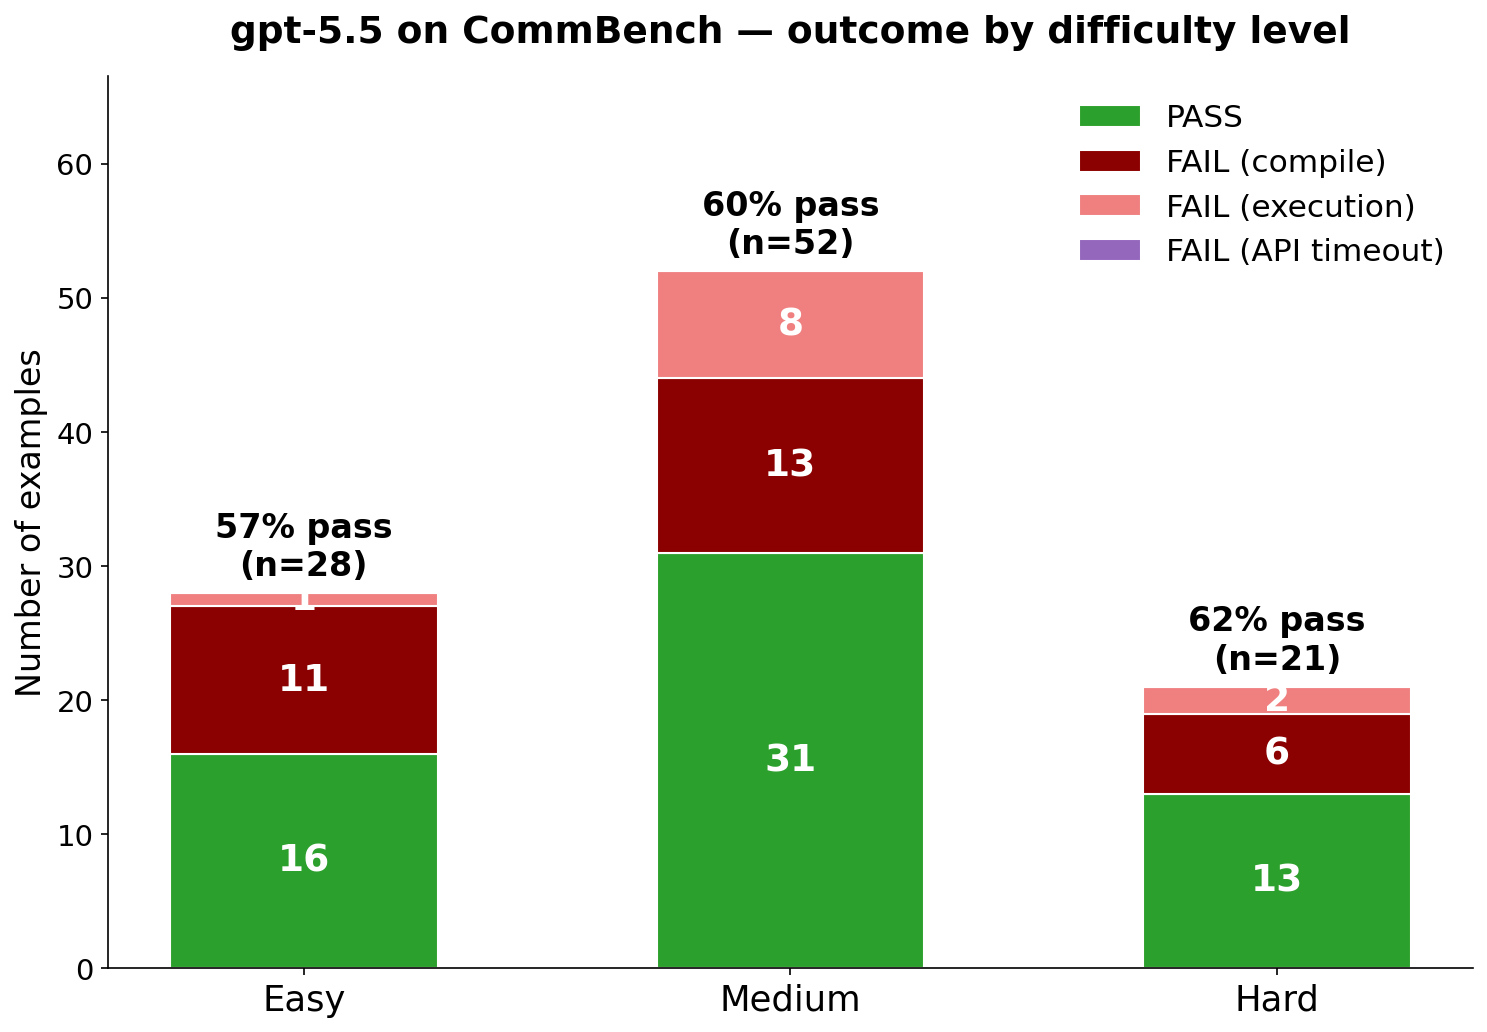
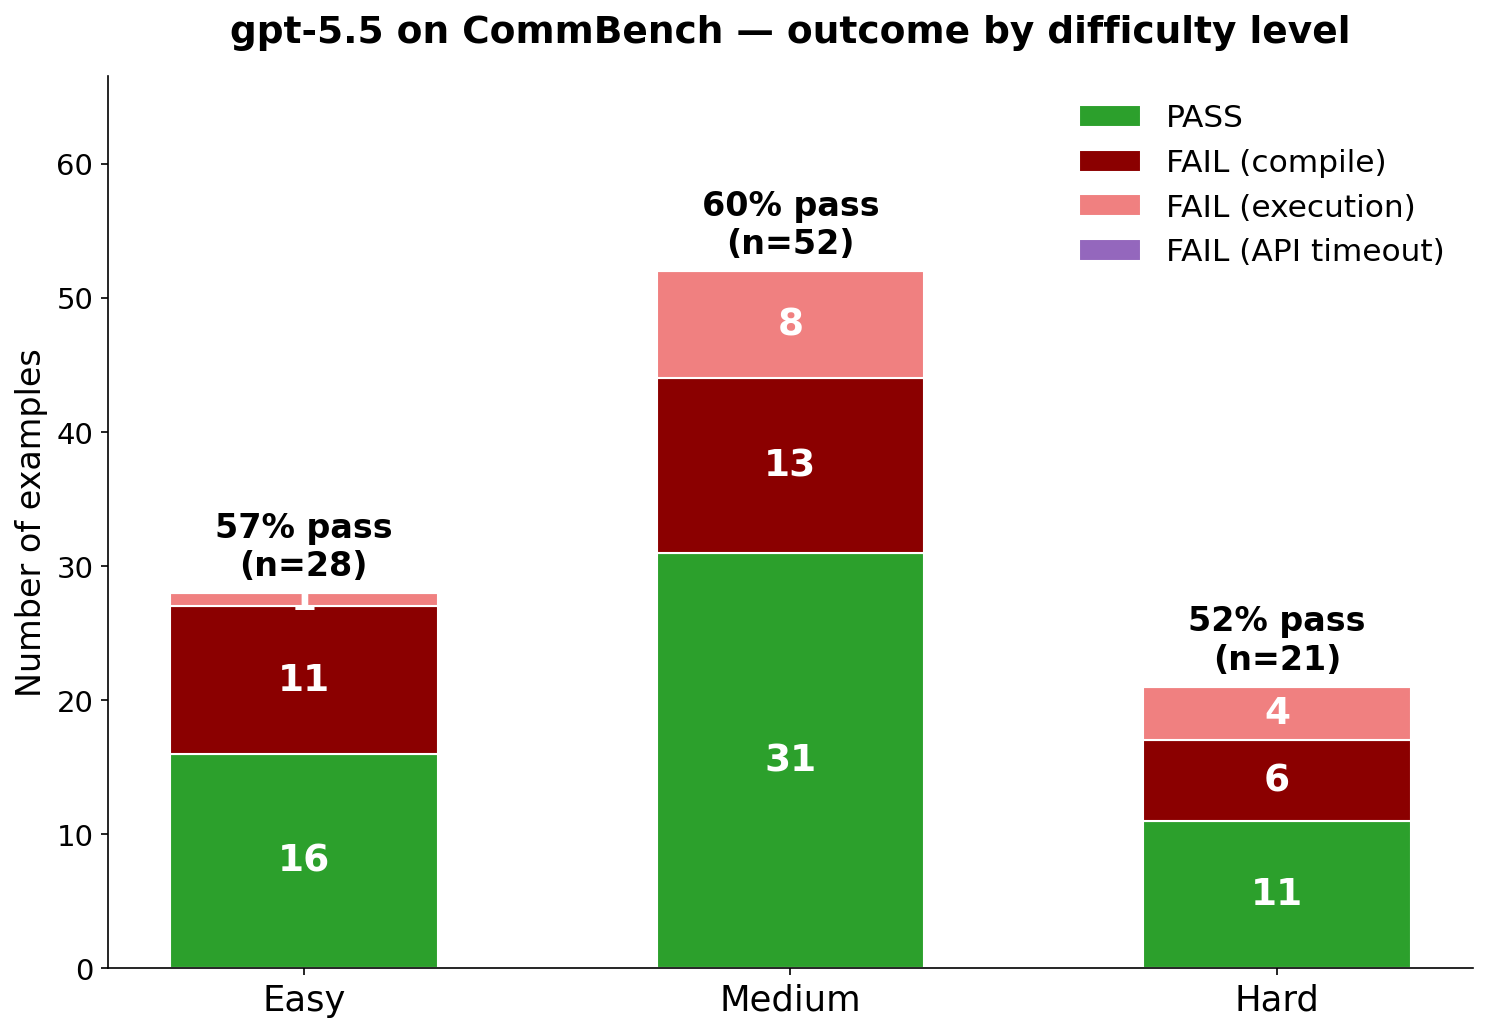
update details

Changed region(s): [[0.7734, 0.6822, 0.959, 0.8062], [0.8352, 0.8372, 0.8971, 0.8992]]

diff --git a/src/content/posts/ubench.md b/src/content/posts/ubench.md
@@ -1,6 +1,6 @@
 ---
 title: "CommBench: Can LLMs Write Correct and Efficient GPU Communication code?"
-slug: llm-gpu-comm-kernels
+slug: commbench
 description: "CommBench evaluates how effectively frontier LLMs generate multi-device GPU communication code, covering diverse communication functionalities and compute–communication fusion kernels."
 category:
   - One
@@ -14,7 +14,7 @@ tags:
   - CUDA
   - NCCL
   - MSCCLPP
-pubDate: 2026-05-21
+pubDate: 2026-06-08
 cover: /ubench/commbench-logo.png
 coverAlt: CommBench logo
 author: Shuang Ma, Yuyi Li, Yihan Zhang, Danyang Chen, Shuyang Ji, Ziming Zhao, Cheng Ji, Ansha Prashanth, Wenting Yang, Chihan Cui, Peiyu Lin, Amanda Raybuck, Ion Stoica, Yang Zhou, and the UCCL Team.
@@ -23,16 +23,16 @@ author: Shuang Ma, Yuyi Li, Yihan Zhang, Danyang Chen, Shuyang Ji, Ziming Zhao, 
 <p>
 <strong>By: Shuang Ma, Yuyi Li, Yihan Zhang, Danyang Chen, Shuyang Ji, Ziming Zhao, Cheng Ji, Ansha Prashanth, Wenting Yang, Chihan Cui, Peiyu Lin, Amanda Raybuck, Ion Stoica, Yang Zhou, and the UCCL Team.
 <br>
-Date: May 21, 2026
+Date: June 8, 2026
 </strong>
 </p>
 
 <div class="tldr">
 <p>
-Today's frontier LLMs write excellent single-device code yet consistently fail on multi-device GPU communication, precisely the code that bottlenecks large-scale LLM training and inference. We present CommBench, a benchmark spanning <strong>point-to-point</strong>, <strong>collective</strong>, <strong>expert-parallel</strong>, <strong>compute and communication fusion</strong>, and <strong>utilities</strong> (building blocks for GPU communication interfaces, such as a GPU–CPU FIFO queue), drawn from hand-written implementations and production codebases including Mscclpp, NCCL, NVSHMEM, DeepEP, ThunderKittens, vLLM, and SGLang. We evaluate leading closed and open models under a cheat-resistant harness and present case studies of where and why they succeed or break down. As future work, we plan to post-train LLMs on these datasets to close this gap.
+Today's frontier LLMs write excellent single-device code yet consistently fail on multi-device GPU communication, precisely the code that bottlenecks large-scale LLM training and inference. We present CommBench, a benchmark covering industry-level multi-device communication use cases based on UCCL's development experience. The dataset spans <strong>point-to-point</strong>, <strong>collective</strong>, <strong>expert-parallel</strong>, <strong>compute and communication fusion</strong>, and <strong>utilities</strong> (building blocks for GPU communication interfaces, such as a GPU–CPU FIFO queue) — some examples hand-written by GPU communication experts, others distilled from production codebases such as Mscclpp, NCCL, NVSHMEM, DeepEP, ThunderKittens, vLLM, and SGLang. We evaluate leading closed and open models under a cheat-resistant harness and present case studies of where and why they succeed or break down. As future work, we plan to post-train LLMs on these datasets to close this gap.
 </p>
 <p>
-Open-sourced at <a href="https://github.com/uccl-project/llm-for-gpu-comm/tree/main">uccl-project/llm-for-gpu-comm</a>.
+Open-sourced at <a href="https://github.com/uccl-project/CommBench/tree/main">uccl-project/CommBench</a>.
 </p>
 </div>
 
@@ -77,7 +77,7 @@ We built a framework that automatically evaluates different models on the datase
 
 **Example structure.** Each example has three parts:
 
-- **Reference solution** — high-quality, hand-written code organized in an object-oriented style (Python / CUDA / HIP / C++). It ships with a test harness that uses randomized inputs, so a model cannot hard-code expected outputs.
+- **Reference solution** — high-quality, hand-written code organized in an object-oriented style (Python / CUDA / HIP / C++). It ships with a test harness that uses randomized inputs, so a model cannot hard-code expected outputs. We keep the reference solutions secret to prevent them from leaking into model training data and contaminating future evaluations.
 - **Empty solution** — the reference with its core implementation stripped out and marked `// TODO`, but with the functional interface preserved. This file becomes part of the prompt: the model must honor the interface semantics, which also keeps its output directly testable. We verify that only the regions meant to be edited were changed, guarding against cheating.
 - **Build-and-run script** — independently compiles and runs an example (reference or generated) and is hidden from the model. By controlling the compile command, we strictly ensure the generated code uses only the intended libraries.
 
@@ -90,17 +90,17 @@ We built a framework that automatically evaluates different models on the datase
 > Sorted by **Pass×GM** ⭐ — pass rate scaled by geometric-mean code quality on passing examples.
 > Bars `▓░` are scaled to the column maximum.
 
-| Rank | Model | Price | Pass×GM | Pass Rate | PASS+Good | GM‑Speedup |
-|:----:|:------|:-----:|:-------:|:---------:|:---------:|:----------:|
-| 🥇 | **gpt-5.5** | $1.91 | 🟢 **0.539** `▓▓▓▓▓▓▓▓` | 🟢 59.4% `▓▓▓▓▓▓▓▓` | 🟢 **32.7%** `▓▓▓▓▓▓▓▓` | 🟡 0.908 `▓▓▓░░░░░` |
-| 🥈 | **gemini-3.1-pro-preview** | $0.26 | 🟡 0.305 `▓▓▓▓▓░░░` | 🟡 36.6% `▓▓▓▓▓░░░` | 🟢 **25.7%** `▓▓▓▓▓▓░░` | 🔴 0.832 `░░░░░░░░` |
-| 🥉 | **claude-opus-4-7** | $0.21 | 🟡 0.282 `▓▓▓▓▓░░░` | 🟡 33.7% `▓▓▓▓▓░░░` | 🟡 **20.8%** `▓▓▓▓▓░░░` | 🔴 0.836 `░░░░░░░░` |
-| 4️⃣ | **glm-5.1** | $0.63 | 🟡 0.281 `▓▓▓▓░░░░` | 🟡 29.7% `▓▓▓▓░░░░` | 🟡 **17.8%** `▓▓▓▓░░░░` | 🟢 0.947 `▓▓▓▓▓░░░` |
-| 5️⃣ | **kimi-k2.6** | $0.10 | 🟡 0.275 `▓▓▓▓░░░░` | 🟡 30.7% `▓▓▓▓░░░░` | 🟡 **18.8%** `▓▓▓▓▓░░░` | 🟡 0.895 `▓▓▓░░░░░` |
-| 6️⃣ | **qwen3.7-max** | $0.03 | 🟡 0.269 `▓▓▓▓░░░░` | 🟡 26.7% `▓▓▓▓░░░░` | 🟡 **15.8%** `▓▓▓▓░░░░` | 🟢 1.008 `▓▓▓▓▓▓▓▓` |
-| 7️⃣ | **deepseek-v4-pro** | $0.02 | 🔴 0.197 `▓▓▓░░░░░` | 🔴 19.8% `▓▓▓░░░░░` | 🔴 **12.9%** `▓▓▓░░░░░` | 🟢 0.995 `▓▓▓▓▓▓▓░` |
+| Rank | Model | Pass×GM | Pass Rate | PASS+Good | GM‑Speedup | Open Source | Price |
+|:----:|:------|:-------:|:---------:|:---------:|:----------:|:-----------:|:-----:|
+| 🥇 | **gpt-5.5** | 🟢 **0.467** `▓▓▓▓▓▓▓▓` | 🟢 57.4% `▓▓▓▓▓▓▓▓` | 🟢 **30.7%** `▓▓▓▓▓▓▓▓` | 🔴 0.813 `░░░░░░░░` | ❌ | $1.91 |
+| 🥈 | **gemini-3.1-pro-preview** | 🟡 0.305 `▓▓▓▓▓░░░` | 🟡 36.6% `▓▓▓▓▓░░░` | 🟢 **25.7%** `▓▓▓▓▓▓░░` | 🔴 0.832 `▓░░░░░░░` | ❌ | $0.26 |
+| 🥉 | **claude-opus-4-7** | 🟡 0.282 `▓▓▓▓▓░░░` | 🟡 33.7% `▓▓▓▓▓░░░` | 🟡 **20.8%** `▓▓▓▓▓░░░` | 🔴 0.836 `▓░░░░░░░` | ❌ | $0.21 |
+| 4️⃣ | **glm-5.1** | 🟡 0.281 `▓▓▓▓░░░░` | 🟡 29.7% `▓▓▓▓░░░░` | 🟡 **17.8%** `▓▓▓▓░░░░` | 🟢 0.947 `▓▓▓▓▓▓░░` | ✅ | $0.63 |
+| 5️⃣ | **kimi-k2.6** | 🟡 0.275 `▓▓▓▓░░░░` | 🟡 30.7% `▓▓▓▓░░░░` | 🟡 **18.8%** `▓▓▓▓▓░░░` | 🟡 0.895 `▓▓▓░░░░░` | ✅ | $0.10 |
+| 6️⃣ | **qwen3.7-max** | 🟡 0.269 `▓▓▓▓░░░░` | 🟡 26.7% `▓▓▓▓░░░░` | 🟡 **15.8%** `▓▓▓▓░░░░` | 🟢 1.008 `▓▓▓▓▓▓▓▓` | ❌ | $0.03 |
+| 7️⃣ | **deepseek-v4-pro** | 🔴 0.197 `▓▓▓░░░░░` | 🔴 19.8% `▓▓▓░░░░░` | 🔴 **12.9%** `▓▓▓░░░░░` | 🟢 0.995 `▓▓▓▓▓▓▓░` | ✅ | $0.02 |
 
-**Color:** 🟢 top tier &nbsp;·&nbsp; 🟡 mid tier &nbsp;·&nbsp; 🔴 bottom tier &nbsp;&nbsp;|&nbsp;&nbsp; GM‑Speedup bar scaled to [0.832, 1.008] range (not from zero).
+**Color:** 🟢 top tier &nbsp;·&nbsp; 🟡 mid tier &nbsp;·&nbsp; 🔴 bottom tier &nbsp;&nbsp;|&nbsp;&nbsp; GM‑Speedup bar scaled to [0.813, 1.008] range (not from zero).
 
 ### Metric Definitions
 
@@ -109,7 +109,7 @@ We built a framework that automatically evaluates different models on the datase
 | **Pass×GM** ⭐ | Pass Rate × GM‑Speedup | Pass rate scaled by geometric-mean code quality on passing examples. Combines coverage and quality: a model that rarely passes but generates very fast code scores the same as one that always passes at reference speed. Primary ranking metric. |
 | **Pass Rate** | PASS / Total | Fraction of examples where code compiled, ran, and produced correct results. |
 | **PASS+Good** | (on\_compare + better) / Total | Fraction of all examples with correct **and** performant code (within −5% of reference). |
-| **GM‑Speedup** | `GM` over scored PASS of `scoreᵢ` | Geometric mean of per-example speedup scores over passing examples. The per-example score is `scoreᵢ = GMₛ( gen(i,s) / ref(i,s) )`, where `s` iterates over measured data sizes and `gen(i,s)`, `ref(i,s)` are the performance metrics of the generated and reference code on example `i` at data size `s`, expressed so that **higher is better** (lower-is-better metrics such as latency are inverted to `1/latency` first). The choice of primary metric per example is determined by human review. Taking the GM across sizes (rather than averaging absolute throughput first) ensures each data point contributes equally regardless of absolute throughput magnitude; without it, large sizes (e.g. 128 MB at ~100 GB/s) would dominate small ones (e.g. 256 KB at ~5 GB/s). |
+| **GM‑Speedup** | `GM` over scored PASS of `scoreᵢ` | Geometric mean of per-example speedup scores over passing examples. The per-example score is `scoreᵢ = GMₛ( gen(i,s) / ref(i,s) )`, where `s` iterates over measured data sizes and `gen(i,s)`, `ref(i,s)` are the performance metrics of the generated and reference code on example `i` at data size `s`, expressed so that **higher is better** (lower-is-better metrics such as latency are inverted to `1/latency` first). The choice of primary metric per example is determined by human review. Taking the GM across sizes (rather than averaging absolute throughput first) ensures each data point contributes equally regardless of absolute throughput magnitude; without it, large sizes (e.g. 128 MB at ~100 GB/s) would dominate small ones (e.g. 256 KB at ~5 GB/s). **Caveat:** computed only over *passing* examples. A model that passes more (often harder) examples with mediocre performance can show a *worse* GM‑Speedup, hence we rank by Pass×GM. |
 | **Price** | — | Average cost per example (USD). |
 
 **Performance verdict thresholds** (4-tier):
@@ -119,7 +119,7 @@ We built a framework that automatically evaluates different models on the datase
 
 ## Analysis: Top vs. Bottom Model
 
-We select the highest- and lowest-scoring models on CommBench, gpt-5.5 (Pass×GM = 0.539) and deepseek-v4-pro (Pass×GM = 0.197), for a detailed breakdown across difficulty levels, task types, library coverage, and code performance.
+We select the highest- and lowest-scoring models on CommBench, gpt-5.5 (Pass×GM = 0.467) and deepseek-v4-pro (Pass×GM = 0.197), for a detailed breakdown across difficulty levels, task types, library coverage, and code performance.
 
 ### Difficulty Breakdown
 
@@ -149,7 +149,7 @@ Human-defined difficulty does not always align with model difficulty. deepseek's
 </tr>
 </table>
 
-gpt-5.5 has the widest quality spread: 8 severely degraded cases (13% of PASS), all concentrated in Hard examples. This is partly because examples that gpt-5.5 manages to compile and run (but with degraded performance) would simply fail to compile or execute under deepseek, and therefore never appear in deepseek's performance distribution at all.
+gpt-5.5 has the widest quality spread: 8 severely degraded cases (14% of PASS), all concentrated in Hard examples. This is partly because examples that gpt-5.5 manages to compile and run (but with degraded performance) would simply fail to compile or execute under deepseek, and therefore never appear in deepseek's performance distribution at all.
 
 ### Tag and Library Coverage
 
@@ -164,7 +164,7 @@ gpt-5.5 has the widest quality spread: 8 severely degraded cases (13% of PASS), 
 </tr>
 </table>
 
-gpt-5.5 dominates on Collective (72% vs 22%) and is the **only** model with meaningful coverage of specialized libraries — mscclpp (33%), nccl-device-api (40%), and thunderkittens (54%). deepseek is competitive on NCCL (100%) and P2P tags, but scores 0% across all three specialized libraries. For widely adopted libraries such as vllm, NCCL, and nvshmem, both models perform well.
+gpt-5.5 dominates on Collective (66% vs 22%) and is the **only** model with meaningful coverage of specialized libraries — mscclpp (17%), nccl-device-api (40%), and thunderkittens (54%). deepseek is competitive on NCCL (100%) and P2P tags, but scores 0% across all three specialized libraries. For widely adopted libraries such as vllm, NCCL, and nvshmem, both models perform well.
 
 ### DeepSeek with max_rounds = 5
 
@@ -193,33 +193,20 @@ Round 5:  42 PASS  (41.6%)   +8
 </tr>
 </table>
 
-#### Performance Quality: max=1 vs max=5
+#### Performance Quality and Library Coverage (max=5)
 
 <table>
 <tr>
-<td align="center" width="50%"><b>DeepSeek max=1</b></td>
-<td align="center" width="50%"><b>DeepSeek max=5</b></td>
+<td align="center" width="50%"><b>Performance distribution</b></td>
+<td align="center" width="50%"><b>Tag & library coverage</b></td>
 </tr>
 <tr>
-<td><img src="/ubench/fig2_pass_performance_deepseek-v4-pro.png" width="100%"></td>
 <td><img src="/ubench/fig2_pass_performance_deepseek_v4_pro_max5.png" width="100%"></td>
-</tr>
-</table>
-
-#### Tag and Library Coverage: max=1 vs max=5
-
-<table>
-<tr>
-<td align="center" width="50%"><b>DeepSeek max=1</b></td>
-<td align="center" width="50%"><b>DeepSeek max=5</b></td>
-</tr>
-<tr>
-<td><img src="/ubench/fig3_radar_tag_library_deepseek-v4-pro.png" width="100%"></td>
 <td><img src="/ubench/fig3_radar_tag_library_deepseek_v4_pro_max5.png" width="100%"></td>
 </tr>
 </table>
 
-Multi-round self-correction doubles deepseek's overall pass rate and unlocks Medium-difficulty commodity-library tasks. It does not unlock Hard examples or specialized libraries — those require domain knowledge the model does not have. The practical implication: deepseek with retries is a reasonable choice when tasks are restricted to commodity libraries (NCCL, vllm, cuda-runtime, nvshmem) and a retry budget is acceptable.
+Multi-round self-correction more than doubles deepseek's overall pass rate (16→42, 15.8%→41.6%) and substantially unlocks Medium-difficulty commodity-library tasks (31% → 60%). It does not unlock Hard examples or specialized libraries (mscclpp: 0%, thunderkittens: 4%) — those require domain knowledge the model does not have. The practical implication: deepseek with retries is a reasonable choice when tasks are restricted to commodity libraries (NCCL, vllm, cuda-runtime, nvshmem) and a retry budget is acceptable.
 
 ---
 
@@ -227,7 +214,7 @@ Multi-round self-correction doubles deepseek's overall pass rate and unlocks Med
 
 ### Case 1: Partial Pass — ThunderKittens AllToAll
 
-##### [Example 049 — ThunderKittens AllToAll ↗](https://github.com/uccl-project/llm-for-gpu-comm/tree/main/datasets/example049_thunderkitten_alltoall_easy)
+##### [Example 049 — ThunderKittens AllToAll ↗](https://github.com/uccl-project/CommBench/tree/main/datasets/example049_thunderkitten_alltoall_easy)
 
 **Level** 🟢 `Easy` &nbsp;·&nbsp; **Tag** `Collective` &nbsp;·&nbsp; **Library** `thunderkittens`
 
@@ -251,7 +238,7 @@ Multi-round self-correction doubles deepseek's overall pass rate and unlocks Med
 
 ### Case 2: A Case All LLMs Failed
 
-##### [Example 072 — GPU Barrier Within CTA ↗](https://github.com/uccl-project/llm-for-gpu-comm/tree/main/datasets/example072_GPU_barrier_within_CTA)
+##### [Example 072 — GPU Barrier Within CTA ↗](https://github.com/uccl-project/CommBench/tree/main/datasets/example072_GPU_barrier_within_CTA)
 
 **Level** 🟡 `Medium` &nbsp;·&nbsp; **Tag** `Utilities` &nbsp;·&nbsp; **Library** `cuda-runtime`
 
@@ -276,7 +263,7 @@ Multi-round self-correction doubles deepseek's overall pass rate and unlocks Med
 
 ### Case 3: All LLMs Failed — Niche Library API with No Algorithmic Hints
 
-##### [Example 086 — mscclpp AllToAll (Hard) ↗](https://github.com/uccl-project/llm-for-gpu-comm/tree/main/datasets/example086_mscclpp_alltoall_hard)
+##### [Example 086 — mscclpp AllToAll (Hard) ↗](https://github.com/uccl-project/CommBench/tree/main/datasets/example086_mscclpp_alltoall_hard)
 
 **Level** 🔴 `Hard` &nbsp;·&nbsp; **Tag** `Collective` &nbsp;·&nbsp; **Library** `mscclpp`
 